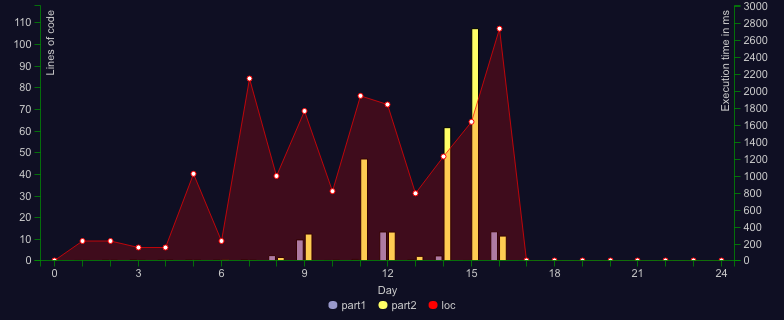
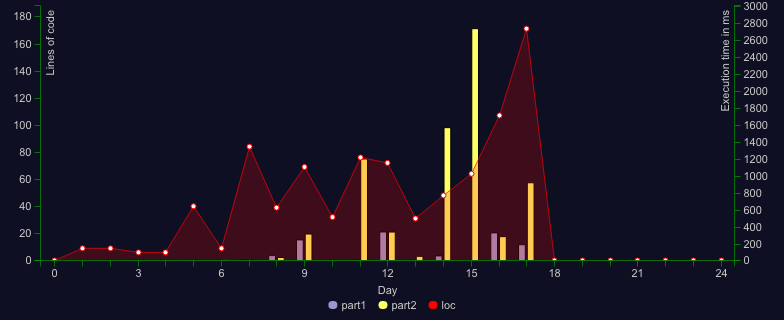
day 17: done

diff --git a/src/day17/index.ts b/src/day17/index.ts
@@ -1,0 +1,221 @@
+import run from "aocrunner"
+import { add, equals, lensIndex, map, over, pipe, range } from "ramda"
+import { noop } from "ramda-adjunct"
+import { threadId } from "worker_threads"
+
+const maxX = 6
+type Point = [number, number]
+type Shape = Point[]
+type Rock = {
+  id: number
+  shape: Shape
+}
+const [PUSH, DROP] = [0, 1]
+
+const xLens = lensIndex<number>(0)
+const yLens = lensIndex<number>(1)
+
+class BlockedMap {
+  private rows: boolean[][] = []
+  add(x: number, y: number) {
+    this.rows[y] = this.rows[y] ?? range(0, maxX + 1).map(() => false)
+    this.rows[y][x] = true
+  }
+  has(x: number, y: number) {
+    const row = this.rows[y]
+    return row && row[x]
+  }
+
+  getTopRowKey() {
+    return parseInt(this.rows[this.rows.length - 1].map((x) => (x ? 1 : 0)).join(""), 2)
+  }
+
+  checkCycle(hdiff: number, print: boolean) {
+    const log = print ? console.log : noop
+    const xs = range(-1, maxX + 2)
+    for (const dy of range(0, hdiff)) {
+      const y = this.rows.length - 1 - dy
+      const y2 = this.rows.length - 1 - hdiff - dy
+
+      if (y < 0 || y2 < 0) break
+
+      log(
+        xs.map((x) => (x === -1 || x === 7 ? "|" : this.has(x, y) ? "#" : ".")).join("") +
+          ` ` +
+          xs.map((x) => (x === -1 || x === 7 ? "|" : this.has(x, y2) ? "#" : ".")).join("") +
+          ` ${y} ${y2}`,
+      )
+      if (!equals(this.rows[y], this.rows[y2])) {
+        log("xxxxxxxxx xxxxxxxxx")
+        log("")
+
+        return false
+      }
+    }
+    log("+-------+ +-------+")
+    log("")
+
+    return true
+  }
+
+  prettyPrint() {
+    const xs = range(-1, maxX + 2)
+    range(0, this.height + 1)
+      .map((dy) => this.height - dy)
+      .forEach((y) => {
+        console.log(
+          xs.map((x) => (x === -1 || x === 7 ? "|" : this.has(x, y) ? "#" : ".")).join(""),
+        )
+      })
+    console.log("+-------+")
+    console.log("")
+  }
+
+  get height() {
+    return this.rows.length
+  }
+}
+
+function* createJetStream(rawInput: string): Generator<1 | -1, 1 | -1, void> {
+  const dxs = rawInput.split("").map((x) => (x === ">" ? 1 : -1))
+  let i = 0
+  while (true) yield dxs[i++ % dxs.length]
+}
+const createRockShape = (n: number, dx: number, dy: number): Point[] => {
+  switch (n) {
+    case 0:
+      return range(0, 4).map((x) => [x + dx, dy])
+    case 1:
+      return [[dx + 1, dy], ...range(0, 3).map<Point>((x) => [x + dx, dy + 1]), [dx + 1, dy + 2]]
+    case 2:
+      return [
+        ...range(0, 3).map<Point>((x) => [x + dx, dy]),
+        ...range(0, 2).map<Point>((y) => [dx + 2, dy + y + 1]),
+      ]
+    case 3:
+      return range(0, 4).map((y) => [dx, dy + y])
+    case 4:
+      return range(0, 2).flatMap((x) => [
+        [dx + x, dy],
+        [dx + x, dy + 1],
+      ])
+  }
+  return []
+}
+function* createRockStream(height = 0): Generator<Rock, Rock, number> {
+  const dx = 2
+  let rock = 0
+
+  while (true) {
+    height = yield { id: rock, shape: createRockShape(rock % 5, dx, height + 3) }
+    rock++
+  }
+}
+const safePush =
+  (dx: 1 | -1) =>
+  (shape: Point[]): Point[] => {
+    if ((dx === 1 && shape.some(([x]) => x === 6)) || (dx === -1 && shape.some(([x]) => x === 0))) {
+      return shape
+    }
+    return map(over(xLens, add(dx)), shape) as Point[]
+  }
+
+const parseInput = (raw: string) => ({
+  jetStream: createJetStream(raw),
+  rockStream: createRockStream(),
+  blocked: new BlockedMap(),
+})
+
+const simulate =
+  (rocks: number) =>
+  ({ jetStream, rockStream, blocked }: ReturnType<typeof parseInput>) => {
+    const cycleCanditates = new Map<string, { height: number; rock: number }[]>()
+    let cycle: { height: number; rock: number; dh: number; dr: number } | null = null
+    let rock: Rock
+
+    while (true) {
+      rock = rockStream.next(blocked.height).value
+
+      if (cycle && (rocks - rock.id) % cycle.dr === 0) {
+        break
+      }
+      if (rock.id === rocks) {
+        break
+      }
+
+      let op = PUSH
+      let shape = rock.shape
+      let stream: 1 | -1 = 1
+      while (true) {
+        stream = op === PUSH ? jetStream.next().value : stream
+        const translate = op === PUSH ? safePush(stream) : map(over(yLens, add(-1)))
+        const nextShape = translate(shape) as Point[]
+
+        if (nextShape.some(([x, y]) => blocked.has(x, y) || y === -1)) {
+          if (op === DROP) {
+            shape.forEach(([x, y]) => {
+              blocked.add(x, y)
+            })
+            if (!cycle && rock.id % 5 === 0 && rock.id > 0) {
+              const { height } = blocked
+              const cycleKey = `${blocked.getTopRowKey()}:${stream}`
+              if (!cycleCanditates.has(cycleKey)) {
+                cycleCanditates.set(cycleKey, [])
+              }
+              const canditates = cycleCanditates.get(cycleKey)!
+              for (const candidate of canditates) {
+                if (blocked.checkCycle(height - candidate.height, false)) {
+                  cycle = {
+                    height: height,
+                    rock: rock.id,
+                    dh: height - candidate.height,
+                    dr: rock.id - candidate.rock,
+                  }
+                  break
+                }
+              }
+              cycleCanditates.set(cycleKey, [...canditates, { height, rock: rock.id }])
+            }
+
+            break
+          }
+        } else {
+          shape = nextShape
+        }
+
+        op = 1 - op
+      }
+    }
+
+    if (cycle) {
+      const remainingCycles = (rocks - rock.id) / cycle.dr
+      return blocked.height + cycle.dh * remainingCycles
+    }
+    return blocked.height
+  }
+
+const part1 = pipe(parseInput, simulate(2022))
+const part2 = pipe(parseInput, simulate(1000000000000))
+
+run({
+  part1: {
+    tests: [
+      {
+        input: `>>><<><>><<<>><>>><<<>>><<<><<<>><>><<>>`,
+        expected: 3068,
+      },
+    ],
+    solution: part1,
+  },
+  part2: {
+    // tests: [
+    //   {
+    //     input: `>>><<><>><<<>><>>><<<>>><<<><<<>><>><<>>`,
+    //     expected: 1514285714288,
+    //   },
+    // ],
+    solution: part2,
+  },
+  trimTestInputs: true,
+  onlyTests: false,
+})

diff --git a/README.md b/README.md
@@ -32,7 +32,7 @@
 [![Day](https://badgen.net/badge/14/%E2%98%85%E2%98%85/green)](src/day14)
 [![Day](https://badgen.net/badge/15/%E2%98%85%E2%98%85/green)](src/day15)
 [![Day](https://badgen.net/badge/16/%E2%98%85%E2%98%85/green)](src/day16)
-![Day](https://badgen.net/badge/17/%E2%98%86%E2%98%86/gray)
+[![Day](https://badgen.net/badge/17/%E2%98%85%E2%98%86/yellow)](src/day17)
 ![Day](https://badgen.net/badge/18/%E2%98%86%E2%98%86/gray)
 ![Day](https://badgen.net/badge/19/%E2%98%86%E2%98%86/gray)
 ![Day](https://badgen.net/badge/20/%E2%98%86%E2%98%86/gray)
@@ -179,16 +179,16 @@ Both parts: 2736.798ms
 
 ```
 Day 16
-Time part 1: 386.428ms
-Time part 2: 303.918ms
-Both parts: 690.346ms
+Time part 1: 325.914ms
+Time part 2: 281.542ms
+Both parts: 607.455ms
 ```
 
 ```
 Day 17
-Time part 1: -
+Time part 1: 182.025ms
 Time part 2: -
-Both parts: -
+Both parts: 182.025ms
 ```
 
 ```
@@ -248,8 +248,8 @@ Both parts: -
 ```
 
 ```
-Total stars: 31/50
-Total time: 7700.46ms
+Total stars: 32/50
+Total time: 7799.594ms
 ```
 
 <!--/RESULTS-->

diff --git a/src/day17/README.md b/src/day17/README.md
@@ -1,0 +1,9 @@
+# 🎄 Advent of Code 2022 - day 17 🎄
+
+## Info
+
+Task description: [link](https://adventofcode.com/2022/day/17)
+
+## Notes
+
+...
